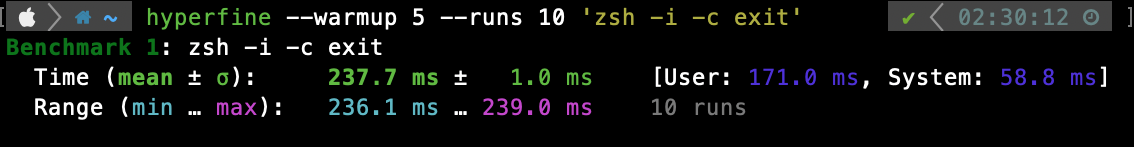
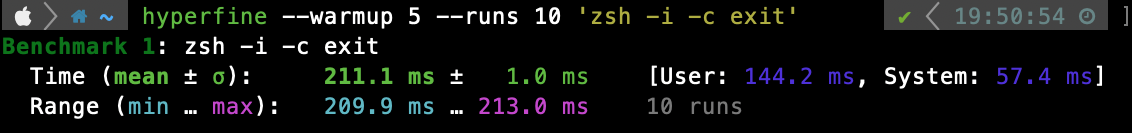
docs: update local benchmark results.

diff --git a/README.md b/README.md
@@ -168,6 +168,6 @@ The published benchmark history is available here:<br>
 
 > [!NOTE]
 > The published benchmark history and benchmark results shown on pull requests are measured on GitHub Actions runners, so they might be slower than the results on your local machine.<br>
-> As a local reference, on a Mac with Apple M2 and 16 GB memory, `zsh -i -c exit` takes about 237.7 ms in this repository.
+> As a local reference, on a Mac with Apple M2 and 16 GB memory, `zsh -i -c exit` takes about 211.1 ms in this repository.
 
 ![Local benchmark result on Apple M2 with 16 GB memory](images/benchmark_local.png)
